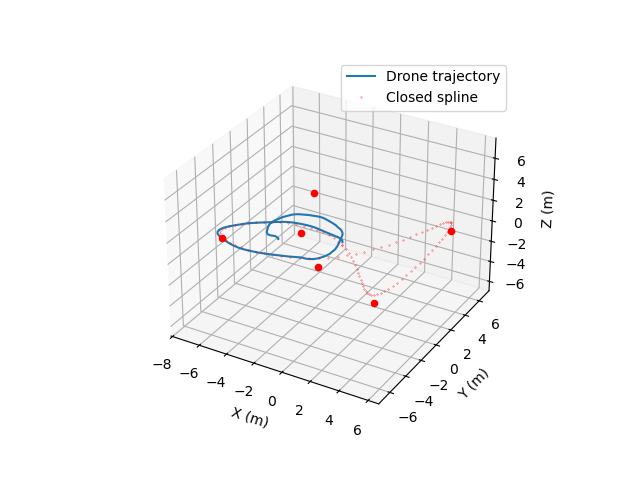
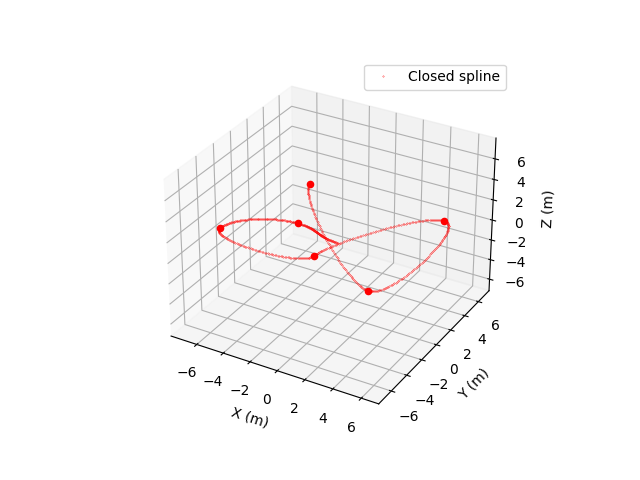
attitude to cartesian

diff --git a/Navigation_Simulator/drone.py b/Navigation_Simulator/drone.py
@@ -15,6 +15,8 @@ import time
 import itertools
 import numpy as np
 
+import math
+
 # Graphics and plotting.
 import mediapy as media
 import matplotlib.pyplot as plt
@@ -198,8 +200,6 @@ class Drone:
       # Also add waypoints in front and behind of gate
       quat = self.data.xquat[mujoco.mj_name2id(self.model, mujoco.mjtObj.mjOBJ_BODY, "gate"+str(i+1))]
       euler_gate = Rotation.from_quat(quat).as_euler('zyx',degrees=False)
-      # print(euler_gate)
-
       yaw = euler_gate[2]
       pos1 = pos - self.gate_d * np.array([np.sin(yaw), np.cos(yaw), 0])
       pos2 = pos + self.gate_d * np.array([np.sin(yaw), np.cos(yaw), 0])
@@ -218,21 +218,46 @@ class Drone:
     points_x = [0]
     points_y = [0]
     points_z = [0]
-    pitch = [0]
-    roll = [0]
-    yaw = [0]
+    pitch = [0.0]
+    roll = [0.0]
+    yaw = [math.pi]
     for i in range(len(self.gate_centres)):
       points_x.append(self.gate_centres[i][0])
       points_y.append(self.gate_centres[i][1])
       points_z.append(self.gate_centres[i][2])
       roll.append(self.gate_att[i][0])
       pitch.append(self.gate_att[i][1])
-      yaw.append(self.gate_att[i][2])
-    
+      yaw.append(self.gate_att[i][2] - (math.pi/2))
+
+
+    i = 0
+    dx = []
+    dy = []
+    dz = []
+    while i < len(roll):
+      dx.append(1 * math.cos(yaw[i]))
+      dy.append(1 * math.sin(yaw[i]))
+      dz.append(0)
+      i += 1
+
+
     # Compute path
-    # self.spline_x, self.spline_y, self.spline_z, self.spline_vx, self.spline_vy, self.spline_vz = hermite_path(points_x,points_y,points_z, roll, pitch, yaw)
-    self.spline_x, self.spline_y, self.spline_z, self.spline_vx, self.spline_vy, self.spline_vz = spline_path(points_x,points_y,points_z)
+    self.spline_x, self.spline_y, self.spline_z, self.spline_vx, self.spline_vy, self.spline_vz = hermite_path(points_x,points_y,points_z, dx, dy, dz)
+    # self.spline_x, self.spline_y, self.spline_z, self.spline_vx, self.spline_vy, self.spline_vz = spline_path(points_x,points_y,points_z)
     self.spline_idx = 0
+
+    fig = plt.figure()
+    ax = fig.add_subplot(111, projection='3d')
+    for i in range(self.n_gates):
+      ax.scatter(self.gate_centres[i][0], self.gate_centres[i][1], self.gate_centres[i][2],c='red',s=20)
+    ax.plot(self.spline_x, self.spline_y, self.spline_z, 'r.', markersize=0.5, label='Closed spline')
+    ax.legend()
+    ax.set_xlabel('X (m)')
+    ax.set_ylabel('Y (m)')
+    ax.set_zlabel('Z (m)')
+    set_axes_equal(ax)
+    plt.savefig('graph_trajectory.png')
+    plt.show()
     
 
   def get_position(self):

diff --git a/Navigation_Simulator/path_planning.py b/Navigation_Simulator/path_planning.py
@@ -14,6 +14,13 @@ z = [0.1, 0.1, 0.1, 0.1, 0]
 
 
 def hermite_path(x, y, z, dx, dy, dz):
+    i = 0
+    while i < len(dx):
+        dx[i] = 5 * dx[i]
+        dy[i] = 5 * dy[i]
+        dz[i] = 5 * dz[i]
+        i += 1
+
     p_x = []
     p_y = []
     p_z = []
@@ -26,7 +33,7 @@ def hermite_path(x, y, z, dx, dy, dz):
     
     while i < len(x) - 1:
         t.append(i)
-        i += 0.1
+        i += 0.01
 
     h1 = []
     h2 = []
@@ -51,7 +58,7 @@ def hermite_path(x, y, z, dx, dy, dz):
     
     dt = 0
     while dt < len(t) - 1:
-        i = int(dt/10)
+        i = int(dt/100)
         p_x.append(float(h1[dt]) * float(x[i]) + float(h2[dt]) * float(x[i + 1]) + float(h3[dt]) * dx[i] + float(h4[dt]) * float(dx[i + 1]))
         p_y.append(float(h1[dt]) * float(y[i]) + float(h2[dt]) * float(y[i + 1]) + float(h3[dt]) * dy[i] + float(h4[dt]) * float(dy[i + 1]))
         p_z.append(float(h1[dt]) * float(z[i]) + float(h2[dt]) * float(z[i + 1]) + float(h3[dt]) * dz[i] + float(h4[dt]) * float(dz[i + 1]))
